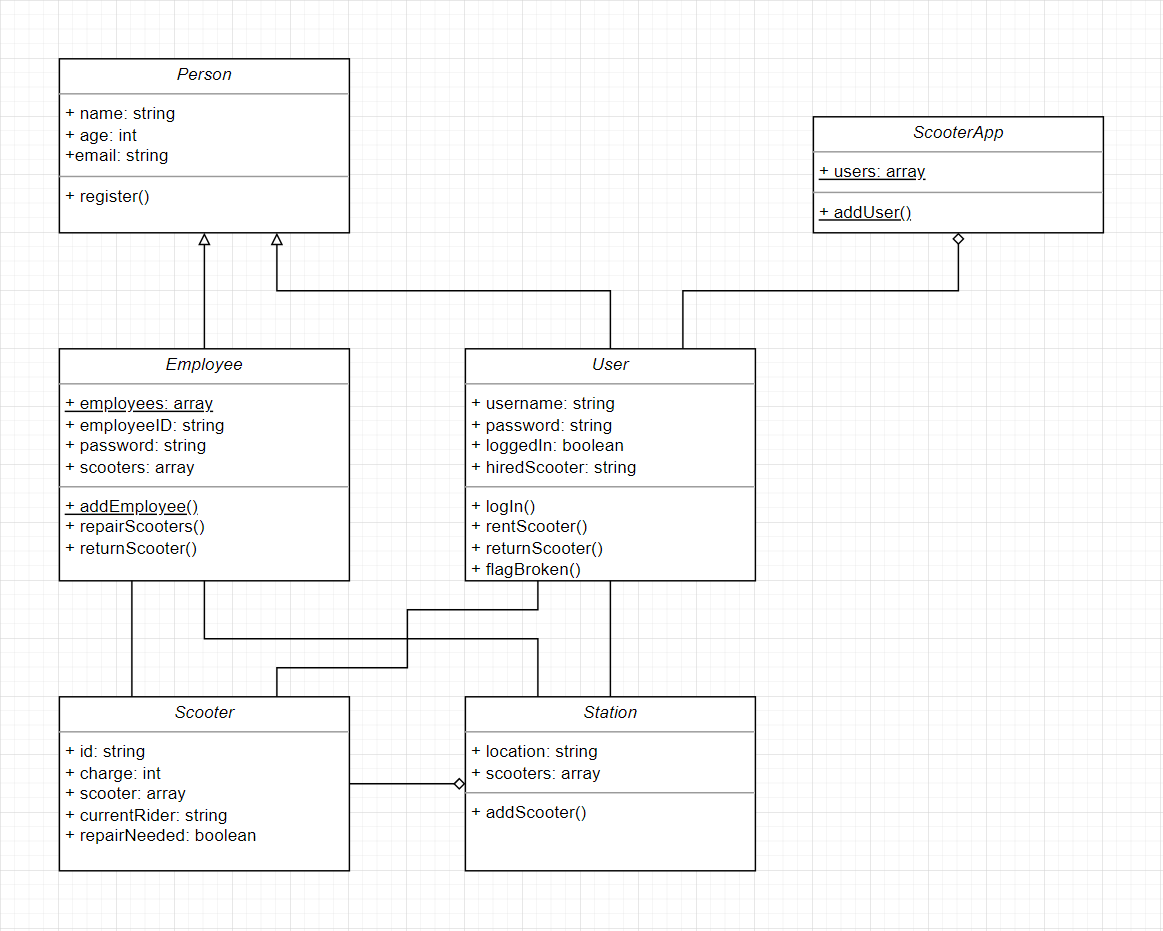
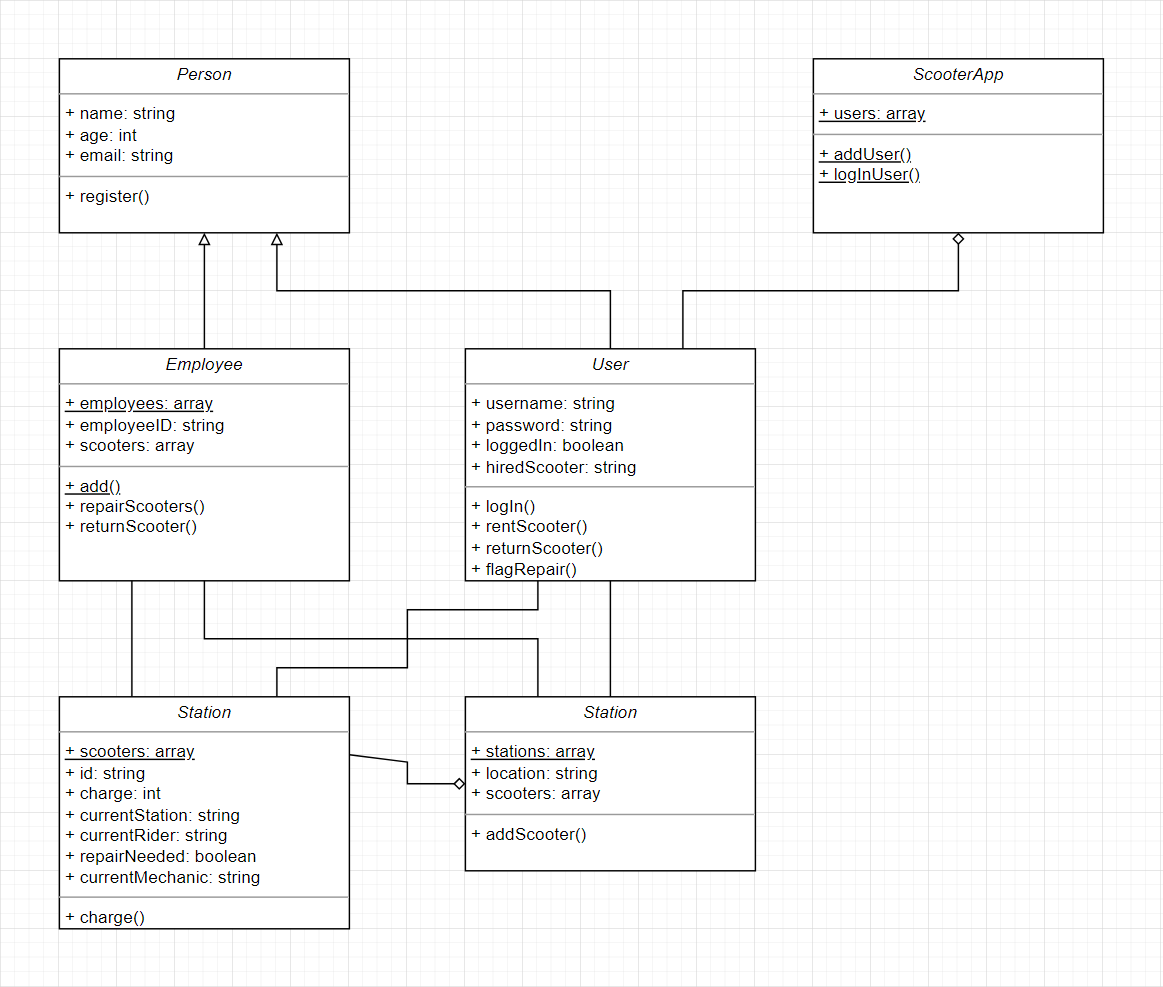
Started writing tests

diff --git a/src/User.js b/src/User.js
@@ -1,16 +1,116 @@
+const Station = require('./Station.js');
+
 class Person {
   constructor(name,age,email) {
     this.name = name;
     this.age = age;
     this.email = email;
   }
-  register() {
-    
-  }
 }
 
-class User {
-    // User code here
+class User extends Person {
+    constructor(name,age,email,username,password) {
+      super(name,age,email);
+      this.username = username;
+      this.password = password;
+      this.loggedIn = false;
+      this.hiredScooter = null;
+    }
+    rentScooter(location) {
+      if (this.age < 18) {
+        throw new Error("User too young to rent scooter");
+      }
+      if (!this.loggedIn) {
+        throw new Error("User is not logged in");
+      }
+      let station = Station.stations.filter(s => s.location === location)[0];
+      if (!station) {
+        throw new Error("Station location not found");
+      }
+      let rentScooter;
+      let count = 0;
+      for (let scooter of station.scooters) {
+        if (scooter.repairNeeded === false && scooter.charge === 100) {
+          count++;
+          rentScooter = scooter;
+        }
+      }
+      if (count < 1) {
+        throw new Error("No scooters available at this station");
+      }
+      station.scooters = station.scooters.filter(s => s.id !== rentScooter.id);
+      rentScooter.currentStation = null;
+      rentScooter.currentRider = this;
+      this.hiredScooter = rentScooter;
+      this.hiredScooter.charge = 20;
+    }
+    returnScooter(location) {
+      if(this.hiredScooter === null) {
+        throw new Error("User currently has no scooter to return");
+      }
+      let station = Station.stations.filter(s => s.location === location)[0];
+      if (!station) {
+        throw new Error("Station location not found");
+      }
+      this.hiredScooter.currentStation = station;
+      this.hiredScooter.currentRider = null;
+      station.scooters.push(this.hiredScooter);
+      this.hiredScooter = null;
+    }
+    flagRepair() {
+      if(this.hiredScooter === null) {
+        throw new Error("User currently has no scooter to flag");
+      }
+      this.hiredScooter.repairNeeded = true;
+    }
+  }
+
+  class Employee extends Person {
+    static employees = [];
+    constructor(name,age,email,employeeID) {
+      if (Employee.employees.filter(e => e.employeeID === employeeID).length > 0) {
+        throw new Error("Employee ID already exists");
+      }
+      else if (Employee.employees.filter(e => e.email === email).length > 0) {
+        throw new Error("Email already linked to employee");
+      }
+      super(name,age,email);
+      this.employeeID = employeeID;
+      this.scooters = [];
+      Employee.employees.push(this);
+    }
+    static add(person,employeeID) {
+      person = new Employee(person.name,person.age,person.email,employeeID);
+    }
+    repairScooters(location) {
+      let station = Station.stations.filter(s => s.location === location)[0];
+      if (!station) {
+        throw new Error("Station location not found");
+      }
+      if (station.scooters.filter(s => s.repairNeeded === true).length < 1) {
+        throw new Error("No scooters at this station need repairs");
+      }
+      for (let scooter of station.scooters) {
+        if (scooter.repairNeeded === true) {
+          scooter.currentStation = null;
+          scooter.currentMechanic = this;
+          this.scooters.push(scooter);
+        }
+        station.scooters = station.scooters.filter(s => s.repairNeeded === false);
+      }
+    }
+    returnScooter(scooter,location) {
+      let station = Station.stations.filter(s => s.location === location)[0];
+      if (!station) {
+        throw new Error("Station location not found");
+      }
+      if (this.scooters.filter(s => s.id === scooter.id).length < 1) {
+        throw new Error("Scooter not in employee's possession");
+      }
+      scooter.currentMechanic = null;
+      scooter.currentStation = station;
+      station.scooters.push(scooter);
+    }
   }
   
-  module.exports = User
+  module.exports = {Person,User,Employee}

diff --git a/tests/User.test.js b/tests/User.test.js
@@ -1,9 +1,23 @@
-const User = require('../src/User');
-
-// User tests here
-
-// test username
-
-// test password
-
-// test age
+const {Person,User,Employee} = require('../src/User.js');
+const ScooterApp = require('../src/ScooterApp.js');
+const Scooter = require('../src/Scooter.js');
+const Station = require('../src/Station.js');
+describe("The person class", () => {
+    test("Person class should assign name, age and email correctly", () => {
+        const p1 = new Person("Mark",32,"m.corrigan@jlb.co.uk");
+        expect(p1.name).toBe("Mark");
+        expect(p1.age).toBe(32);
+        expect(p1.email).toBe("m.corrigan@jlb.co.uk");
+    });
+    test("register() method should make person into user", () => {
+        const p1 = new Person("Mark",32,"m.corrigan@jlb.co.uk");
+        ScooterApp.addUser(p1,"ChairmanMark","stalingrad");
+        expect(p1 instanceof User).toBeTruthy();
+    });
+    test("register() method should assign username and password correctly", () => {
+        const p1 = new Person("Mark",32,"m.corrigan@jlb.co.uk");
+        ScooterApp.addUser(p1,"ChairmanMark","stalingrad");
+        expect(p1.username).toBe("ChairmanMark");
+        expect(p1.password).toBe("stalingrad");
+    });
+});

diff --git a/src/ScooterApp.js b/src/ScooterApp.js
@@ -1,8 +1,28 @@
-const User = require('./User');
-const Scooter = require('./Scooter');
+const {User,Person} = require('./User');
 
 class ScooterApp {
-  // ScooterApp code here
+  static users = [];
+  static addUser(person,username,password) {
+    if (ScooterApp.users.filter(u => u.username === username).length > 0) {
+      throw new Error("Username already exists");
+    }
+    else if (ScooterApp.users.filter(u => u.email === person.email).length > 0) {
+      throw new Error("Email already linked to user");
+    }
+    const newUser = new User(person.name,person.age,person.email,username,password);
+    ScooterApp.users.push(newUser);
+    return newUser;
+  }
+  static logInUser(username,password) {
+    for(let user of ScooterApp.users) {
+      if (username === user.username && password === user.password) {
+        user.loggedIn = true;
+        return;
+      }
+      throw new Error("Username or password is incorrect");
+    }
+  }
 }
-
+const p1 = new Person("Mark",32,"m.corrigan@jlb.co.uk")
+ScooterApp.addUser(p1,"riri","gjgj");
 module.exports = ScooterApp;

diff --git a/src/Scooter.js b/src/Scooter.js
@@ -1,5 +1,26 @@
 class Scooter {
-  // scooter code here
+  static scooters = [];
+  constructor(id) {
+    if (Scooter.scooters.filter(s => s.id === id).length > 0) {
+      throw new Error("Scooter ID already in use");
+    }
+    this.id = id;
+    this.charge = 100;
+    this.currentStation = null;
+    this.currentRider = null;
+    this.repairNeeded = false;
+    this.currentMechanic = null;
+    Scooter.scooters.push(this);
+  }
+  charge() {
+    if (this.currentStation === null) {
+      throw new Error("Scooter not currently in station");
+    }
+    if (this.charge > 99) {
+      throw new Error("Scooter already fully charged");
+    }
+    this.charge = 100;
+  }
 }
 
 module.exports = Scooter;

diff --git a/src/Station.js b/src/Station.js
@@ -1,0 +1,18 @@
+class Station {
+    static stations = [];
+    constructor(location) {
+        if (Station.stations.filter(s => s.location === location).length > 0) {
+            throw new Error("Station location already exists");
+        }
+        this.location = location;
+        this.scooters = [];
+        this.repairs = [];
+        Station.stations.push(this);
+    }
+    addScooter(scooter) {
+        scooter.currentStation = this;
+        this.scooters.push(scooter);
+    }
+}
+  
+module.exports = Station;

diff --git a/tests/Scooter.test.js b/tests/Scooter.test.js
@@ -1,6 +1,6 @@
 const Scooter = require('../src/Scooter');
 const User = require('../src/User');
-
+/*
 //typeof scooter === object
 describe('scooter object', () => {
   test('does something', () => {
@@ -17,3 +17,4 @@ describe('scooter methods', () => {
   //requestRepair method
   //charge method
 });
+*/
